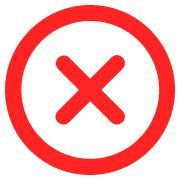
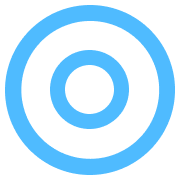
Style : 정답 토스트 팝업 테스트3

diff --git a/src/styles/questionStyle.jsx b/src/styles/questionStyle.jsx
@@ -6,11 +6,11 @@ export const focusIn =  keyframes`
         -webkit-transform: scale(0.5);
                 transform: scale(0.5);
         }
-        37% {
+        22% {
         -webkit-transform: scale(1);
                 transform: scale(1);
         }
-        74% {
+        80% {
         -webkit-transform: scale(1);
                 transform: scale(1);
         }
@@ -152,17 +152,24 @@ export const Ment = styled.p`
 `
 
 export const ImageToast = styled(Image)`
-    margin: 0 auto;
-
-
+    /* margin: 0 auto; */
+    width: 170px;
+    height: 170px;
+    display: inline;
+    /* text-align: center; */
+    /* left: 50%; */
+    /* transform: translate(-50%, 0%); */
+    /* position: absolute; */
 `
 
 export const ContToast = styled.div`
+    width: 330px;
     position: absolute;
     top: 177px;
     /* left: 50%;
     transform: translate(-50%, 0%); */
     margin: 0 auto;
+    text-align: center; 
     /* margin: 0 auto; */
     animation: ${focusIn} 2s cubic-bezier(1, 1, 1, 1) ;
     div{

diff --git a/src/pages/question/detail/index.jsx b/src/pages/question/detail/index.jsx
@@ -4,8 +4,8 @@ import YouTube from "react-youtube";
 
 import note from "../../../assets/images/note.png";
 import timer from "../../../assets/images/timer.png";
-import  answerImg from "../../../assets/images/false.png";
-import falseImg from "../../../assets/images/answer.png";
+import  answerImg from "../../../assets/images/answer.png";
+import falseImg from "../../../assets/images/false.png";
 import { Btn } from "../../../components/Button";
 import { Cont_Inp, Title, Inp, MentEng } from "../../../components/InputAnswer";
 import { Player } from "../../../components/Youtube";
